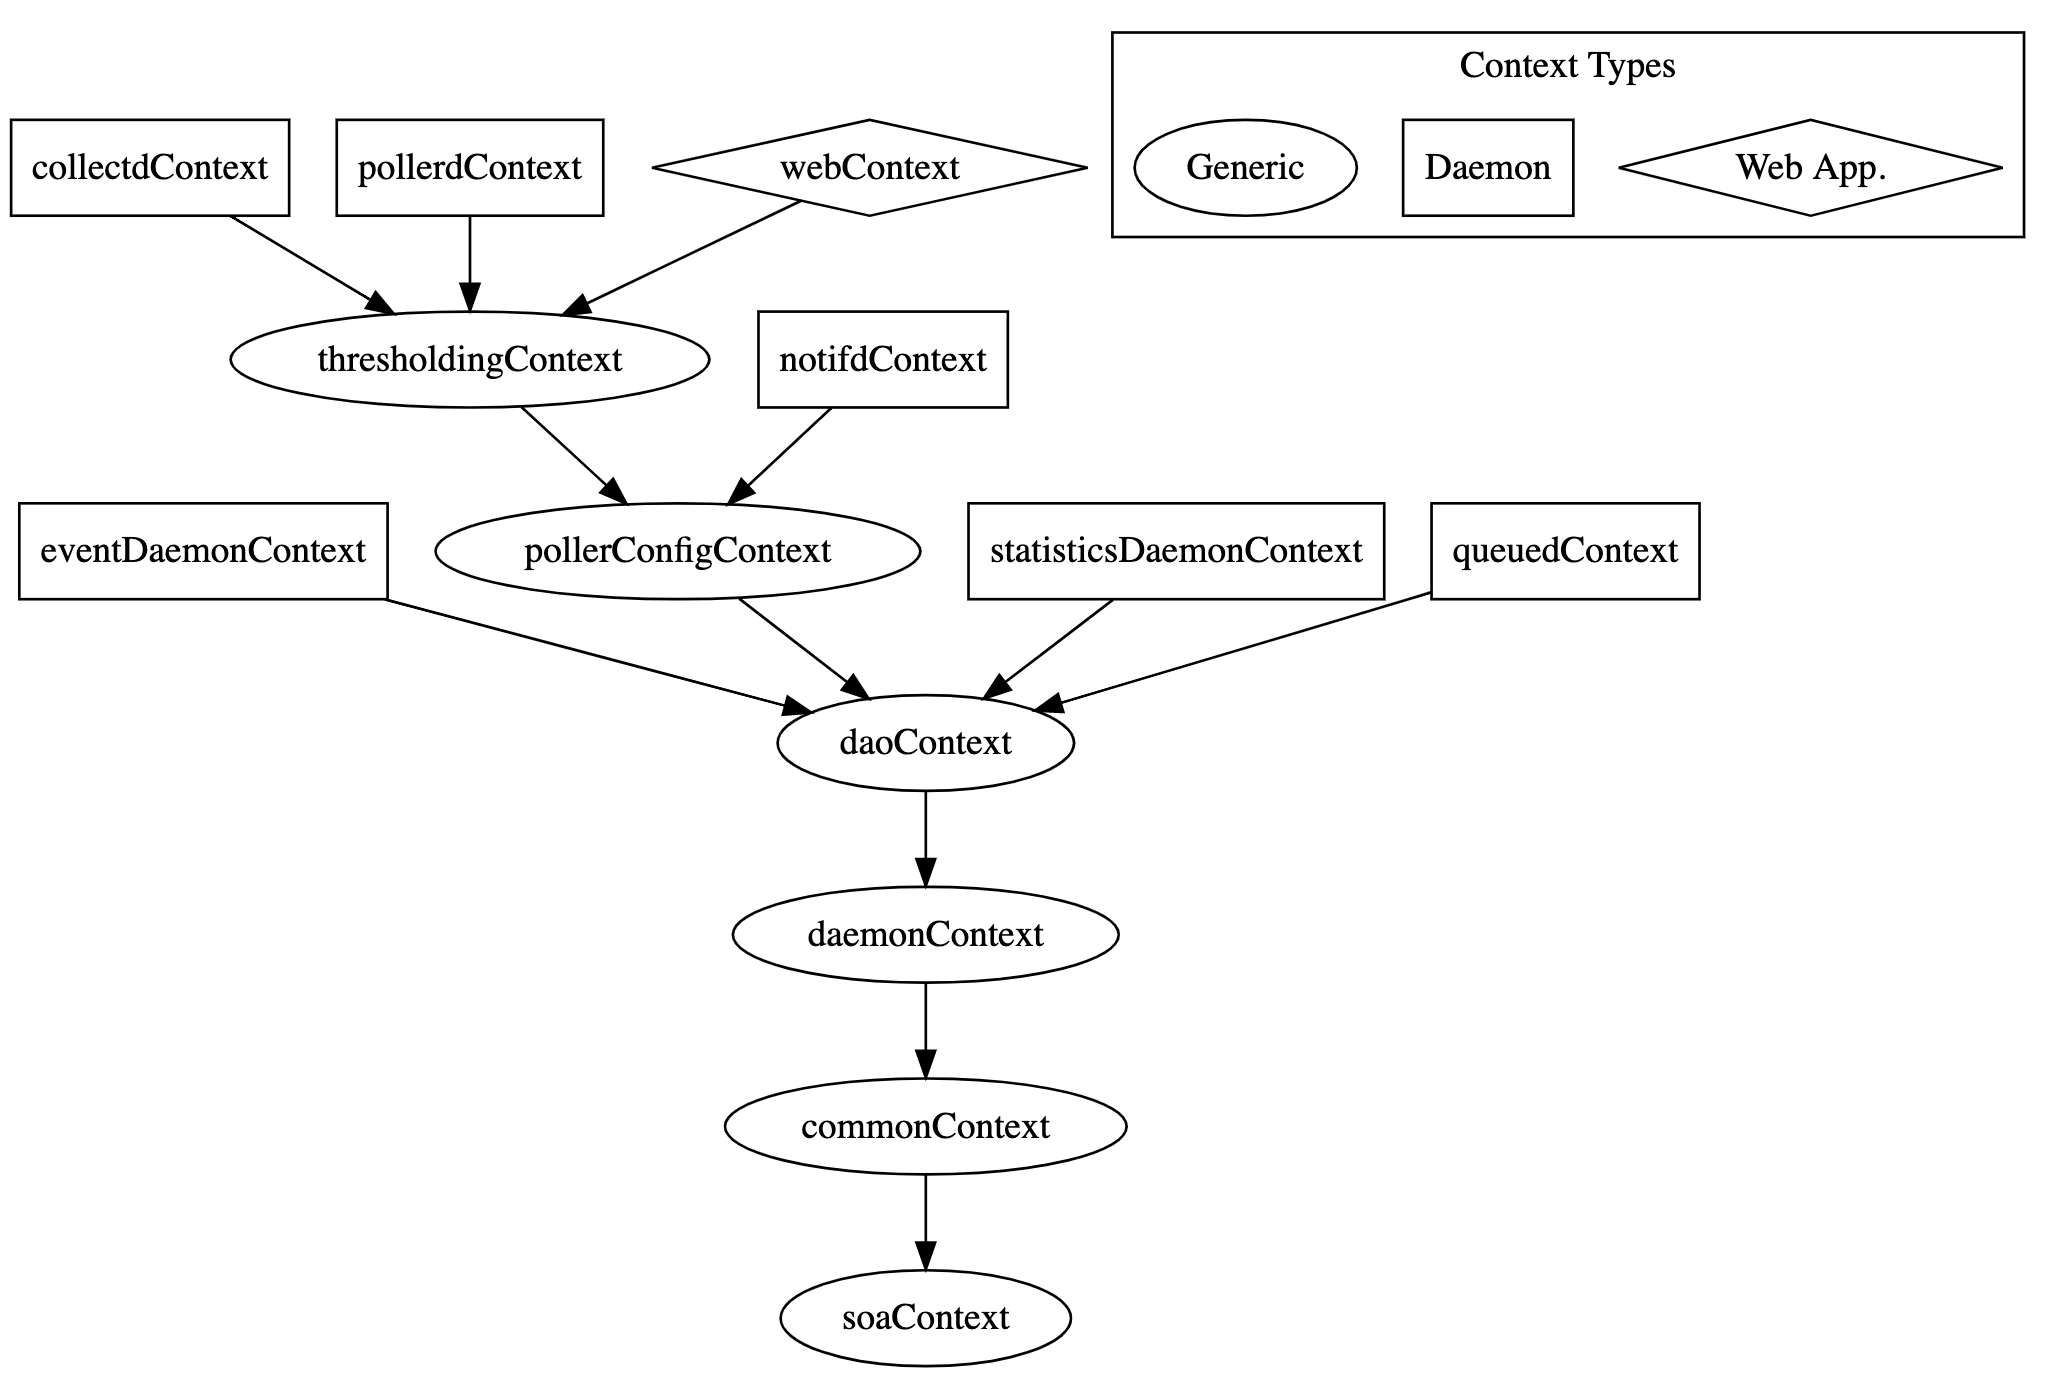
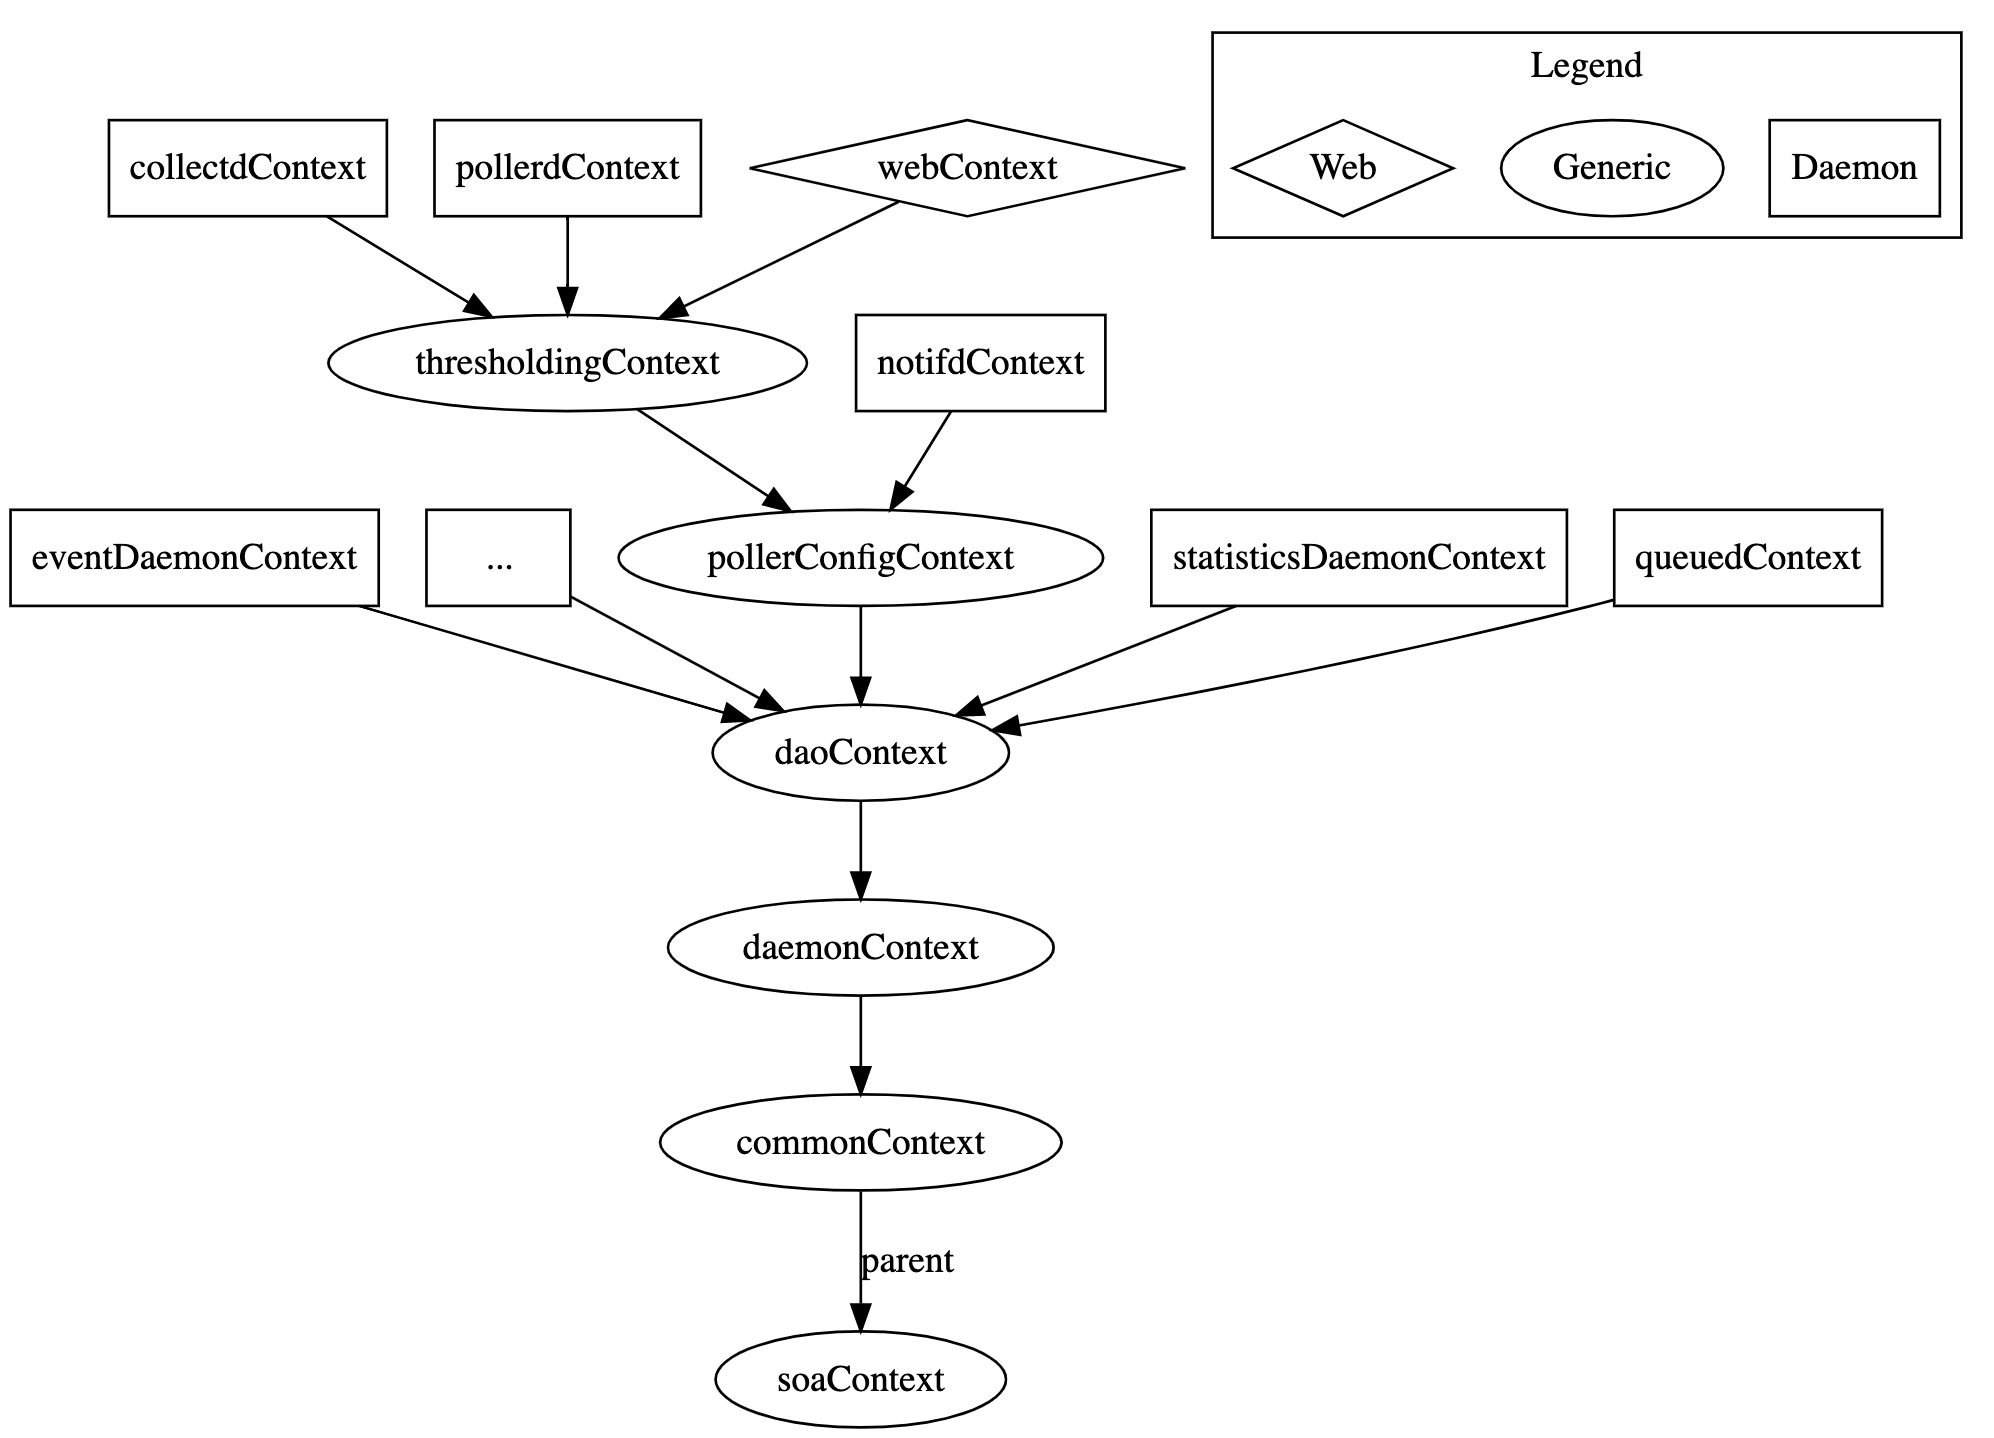
Update Spring context dependency diagram.

Changed region(s): [[0.0, 0.0624, 0.995, 0.9985], [0.6219, 0.0, 0.9639, 0.0624]]

diff --git a/docs/foundation/03-jvm-architecture.md b/docs/foundation/03-jvm-architecture.md
@@ -86,9 +86,6 @@ The call to `BeanUtils#getFactory` ends up loading the `eventDaemonContext` defi
 The hiearchy of Spring contexts looks like:
 ![comprehensive](images/spring-context-dep-graph.png)
 
-TODO: Add `...` that depends on daoContext
-TODO: Identify as parent contexts
-
 Contexts are able to access beans defined specifically in that context, or in any parent contexts.
 
 > When a context is loaded, it's parents will be recursively loaded, which means that a large part of the initialization will happen when the first daemon starts and loads an application context.
